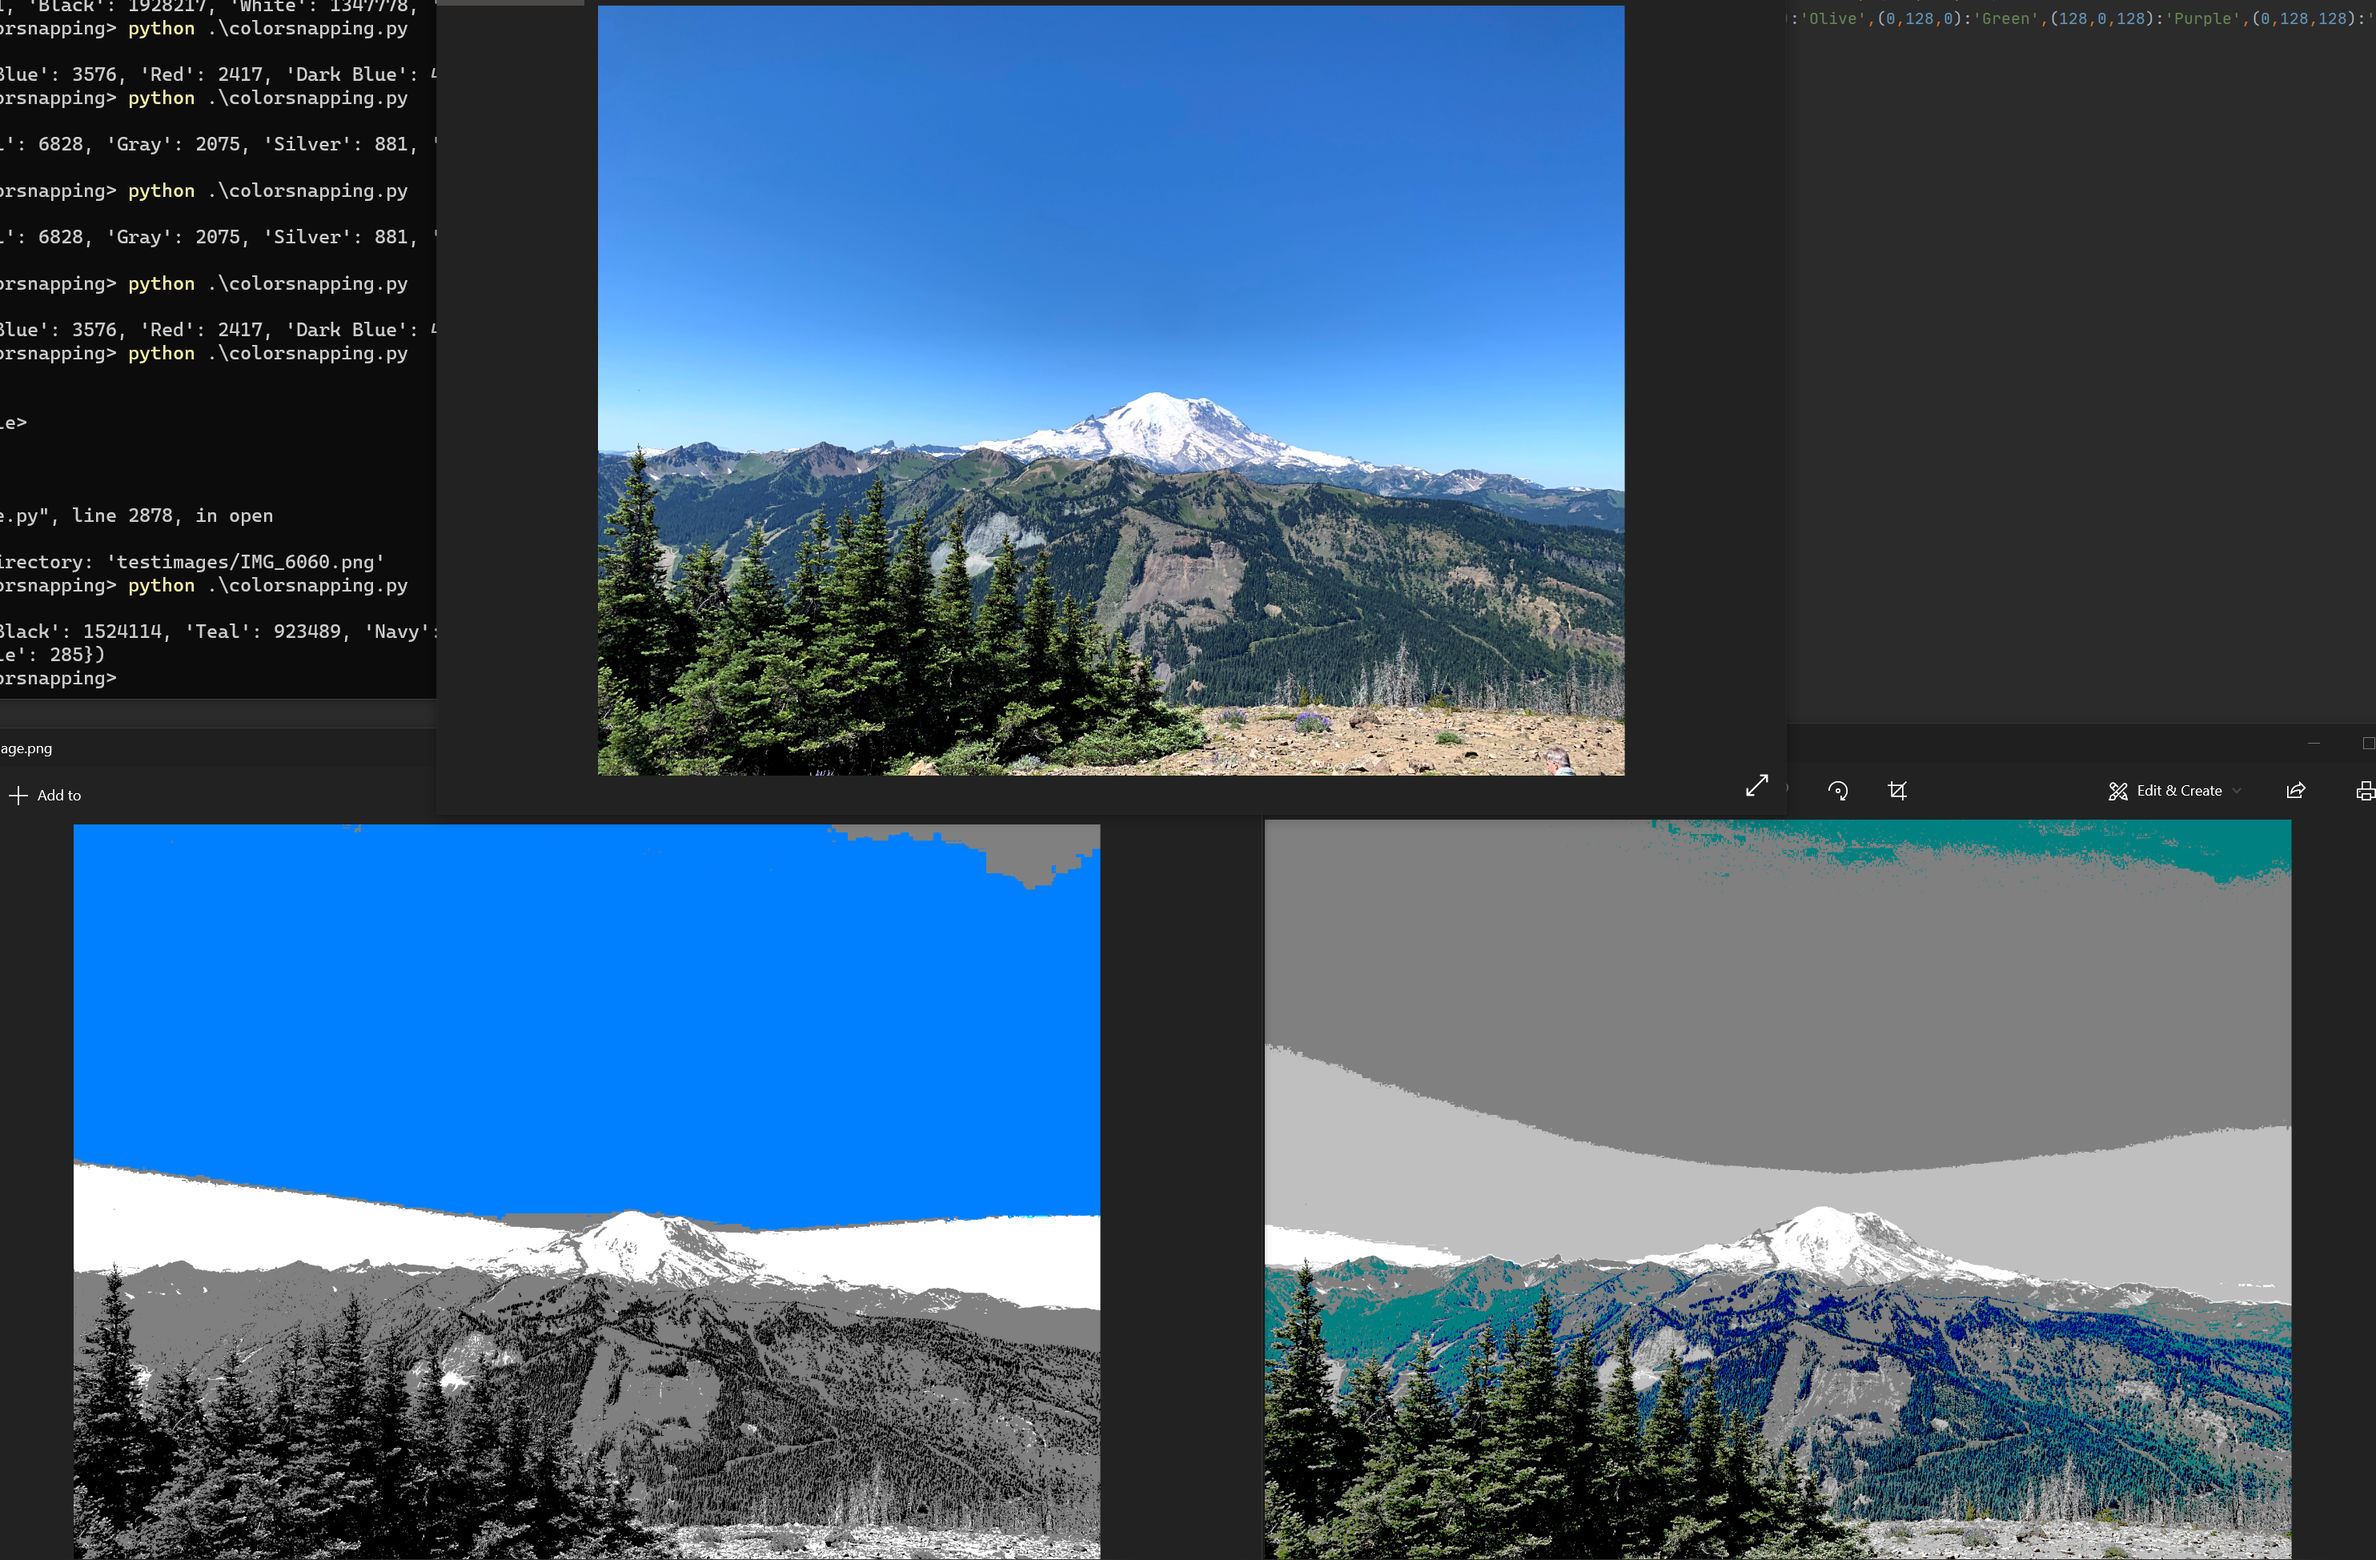
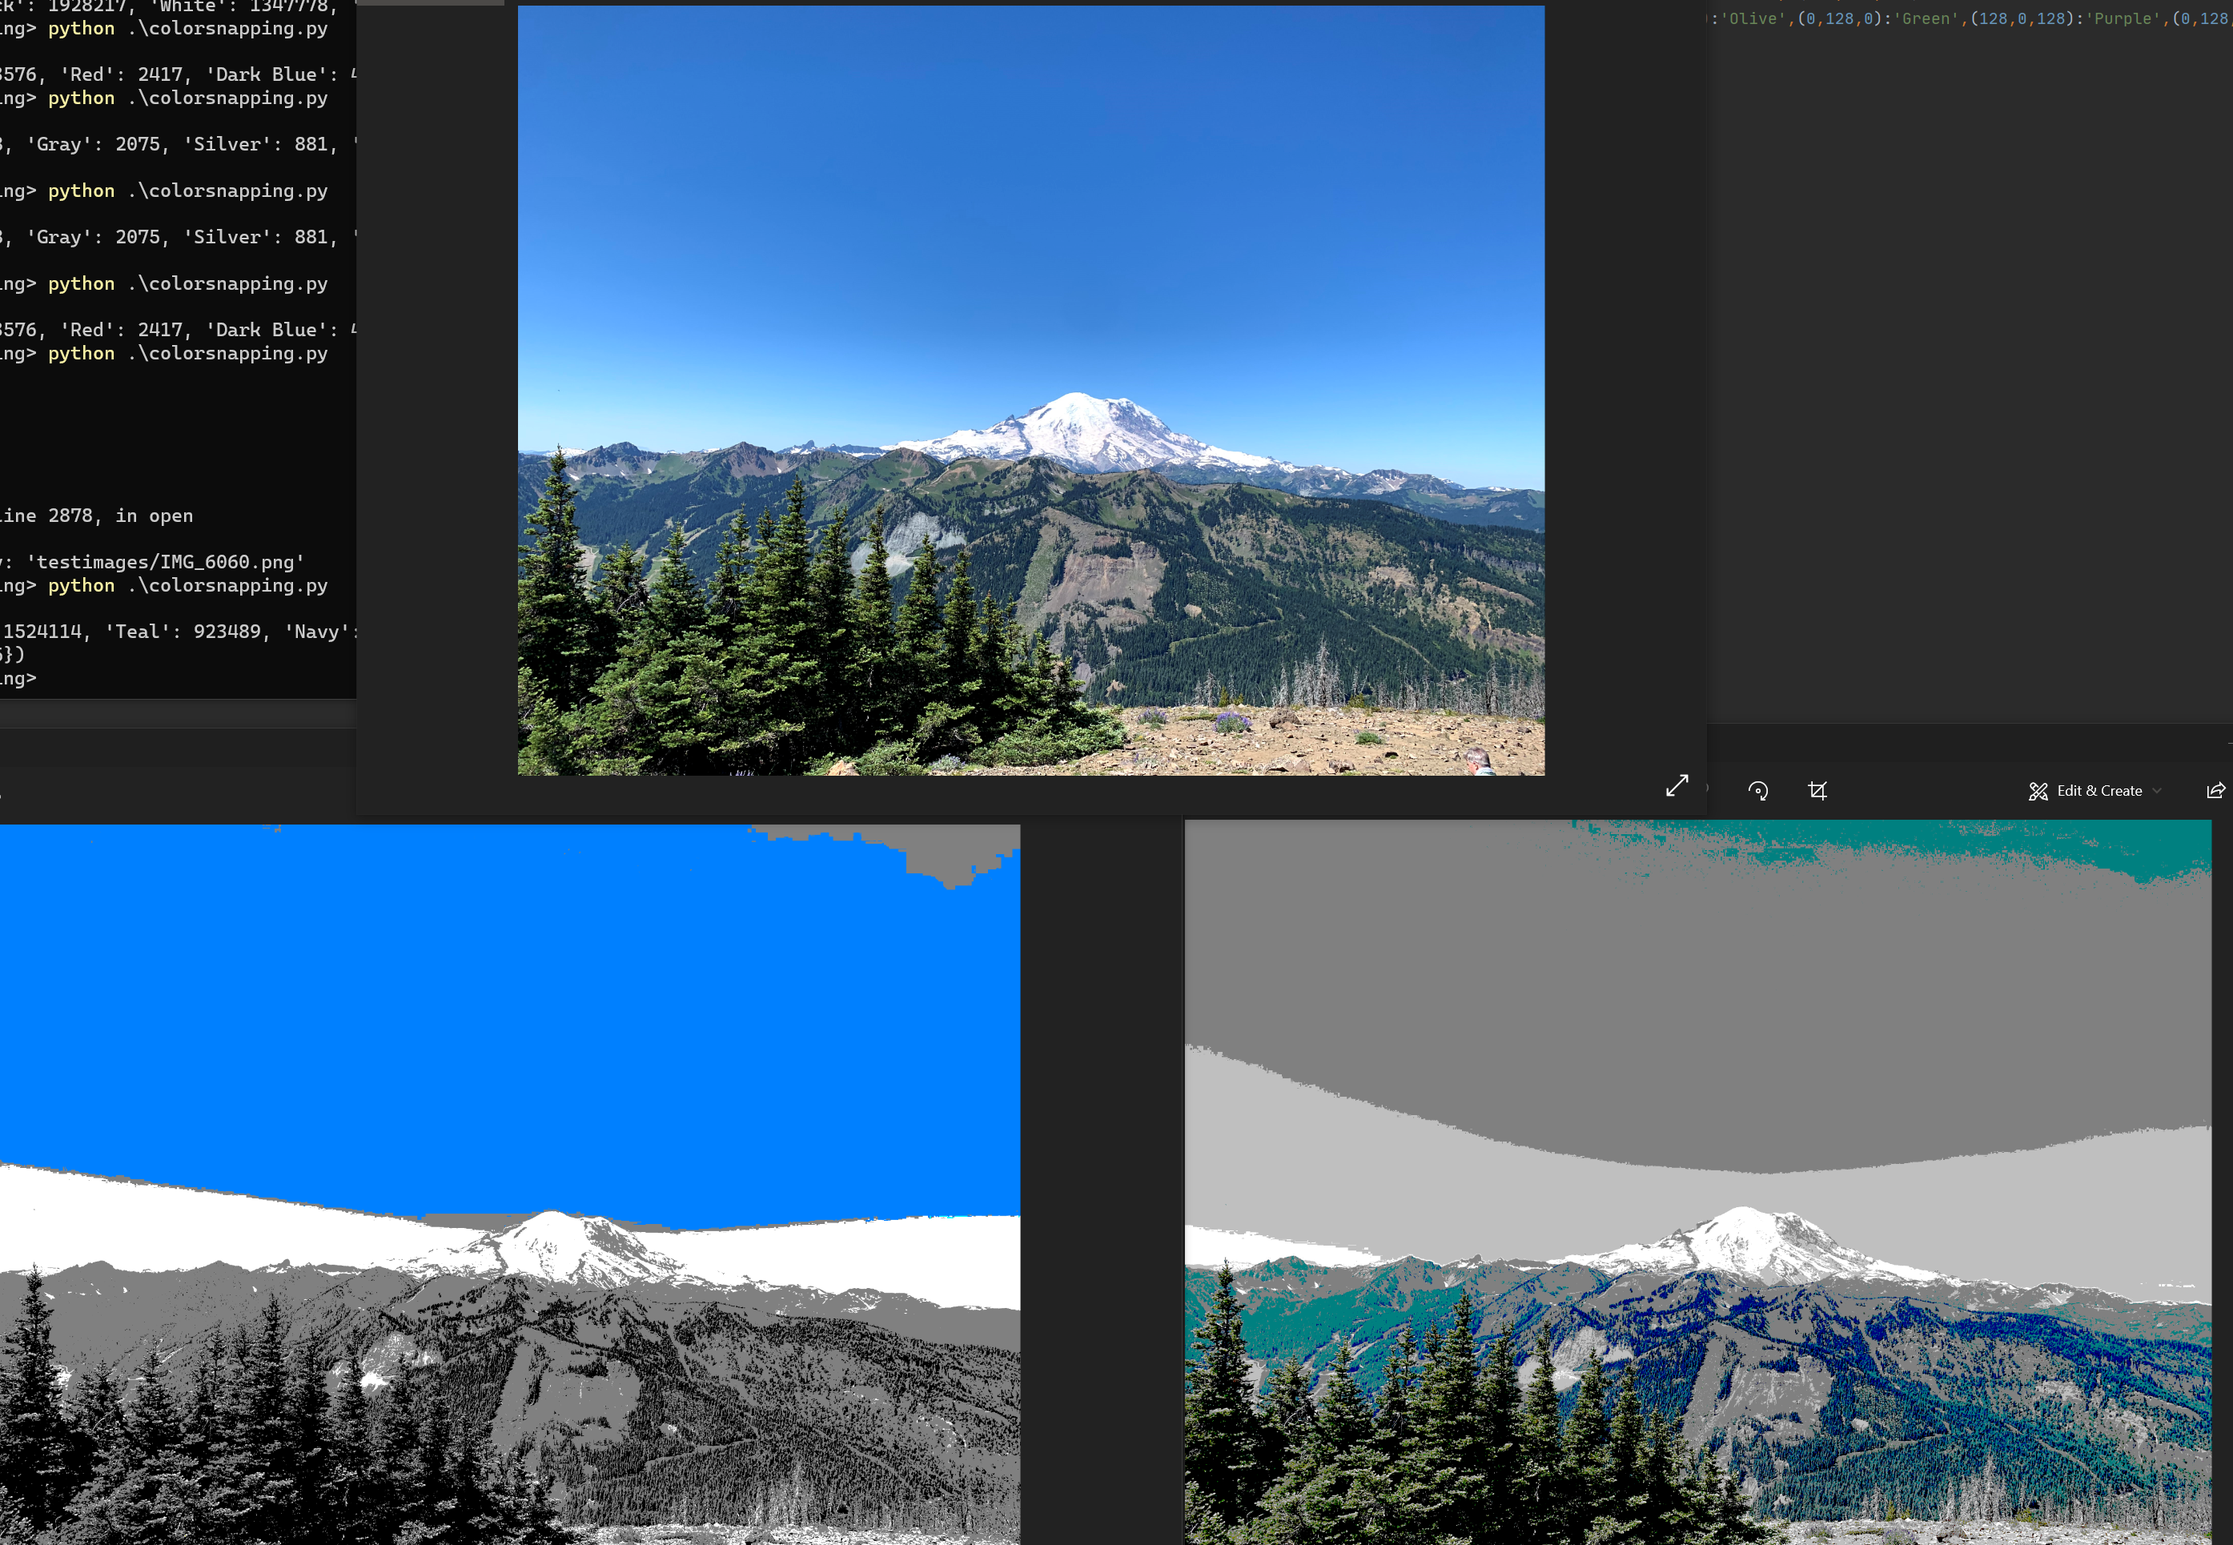
Final Update
Added a condition to select a color vs a shade of gray. If lightness is less than 15%, count it as a shade of gray, else it is a color.

diff --git a/colorsnapping.py b/colorsnapping.py
@@ -6,10 +6,12 @@ COLOR_DICT = {(255,51,51):'Red', (255,128,0):'Orange', (255,255,0):'Yellow', (0,
               (0,255,255):'Dark Blue', (127,0,255):'Purple',(255,0,255):'Magenta', (255,51,153):'Pink', (128,128,128):'Gray',
               (0,0,0):'Black', (255,255,255):'White'}
 
-COLOR_DICT_V2 = {(0,0,0):'Black',(255,255,255):'White',(255,0,0):'Red',(0,255,0):'Light Green',(0,0,255):'Blue',(255,255,0):'Yellow',
-                 (255,215,0):'Gold',(0,255,255):'Light Blue',(255,140,0):'Orange',(255,0,255):'Magenta',(75,0,130):'Indigo',
-                 (191,191,191):'Silver',(128,128,128):'Gray',(128,0,0):'Dark Red',(0,128,0):'Green',
-                 (220,202,152):'Tan',(128,0,128):'Purple',(0,128,128):'Blue Green',(0,0,128):'Dark Blue'}
+COLOR_DICT_V2 = {(255,0,0):'Red',(0,255,0):'Light Green',(0,0,255):'Blue',(255,255,0):'Yellow', (255,215,0):'Gold',
+                 (0,255,255):'Light Blue',(255,140,0):'Orange',(255,0,255):'Magenta',(75,0,130):'Indigo',
+                 (128,0,0):'Dark Red',(0,128,0):'Green', (220,202,152):'Tan',(128,0,128):'Purple',
+                 (0,128,128):'Blue Green',(0,0,128):'Dark Blue'}
+
+NO_SAT = {(0,0,0):'Black',(255,255,255):'White', (191,191,191):'Silver',(128,128,128):'Gray'}
 
 PAIRED_COLORS = {'Black': ['Gray'], 'Gray': ['Black', 'Silver'], 'Silver': ['Gray'], 'White': ['Silver', 'Tan'],
                  'Tan': ['Yellow'], 'Yellow': ['Tan', 'Gold'], 'Gold': ['Orange', 'Yellow '], 'Orange': ['Gold', 'Red'],
@@ -32,11 +34,25 @@ def lab_conversion(c1:(int), c2:(int))-> float:
     b = c1[2] - c2[2]
     return (2+rmean/256)*r*r + 4*g*g + (2+(255-rmean)/256)*b*b
 
-def color_snap(pixel:(int)) -> (int):
-    global COLOR_DICT_V2
+def sat_conversion(c1:(int))-> float:
+    rprime = c1[0] / 255
+    gprime = c1[1] / 255
+    bprime = c1[2] / 255
+    cMax = max(rprime, gprime, bprime)
+    cMin = min(rprime, gprime, bprime)
+    dC = cMax - cMin
+    lightness = cMax + cMin / 2
+    if dC == 0:
+        return 0.0
+    else:
+        if (1-abs(2*lightness-1)) == 0:
+            return 1
+        return dC/(1-abs(2*lightness-1))
+
+def color_snap(pixel:(int), d:{}) -> (int):
     sDist = 10000000
     cColor = -1
-    for color in COLOR_DICT_V2.keys():
+    for color in d.keys():
         dist = lab_conversion(color, pixel)
         if dist < sDist:
             sDist = dist
@@ -55,6 +71,7 @@ def collapse_counter(count:Counter) -> [()]:
 
 def run():
     global COLOR_DICT_V2
+    global NO_SAT
     tests = ['1.png','2.png','3.png','4.png','5.png','6.png','7.png', '8.png', '9.png']
     for test in tests:
         print(test)
@@ -65,11 +82,21 @@ def run():
         nList = []
         for val in pix_val:
             if len(val) == 3:
-                c = color_snap(val)
+                if sat_conversion(val) < 0.15:
+                    c = color_snap(val, NO_SAT)
+                    count[NO_SAT[c]] += 1
+                else:
+                    c = color_snap(val, COLOR_DICT_V2)
+                    count[COLOR_DICT_V2[c]] += 1
                 nList.append(c)
-                count[COLOR_DICT_V2[c]] += 1
             elif val[3] == 255:
-                c = color_snap(val)
+                if sat_conversion(val) < 0.15:
+                    c = color_snap(val, NO_SAT)
+                    count[NO_SAT[c]] += 1
+                else:
+                    c = color_snap(val, COLOR_DICT_V2)
+                    count[COLOR_DICT_V2[c]] += 1
+                nList.append(c)
                 #Code For Producing the Image Without Black or Gray in it.
                 '''
                 if COLOR_DICT_V2[c] == 'Black' or COLOR_DICT_V2[c]=='Gray':
@@ -77,8 +104,6 @@ def run():
                 else:
                     nList.append(c)
                 '''
-                nList.append(c)
-                count[COLOR_DICT_V2[c]] += 1
             else:
                 nList.append(val)
         percent_black = (count['Black']+count['Gray'])/ sum(count.values())
@@ -91,8 +116,8 @@ def run():
 
         #Code for Saving image
 
-        #im2.putdata(nList)
-        #im2.save('outputcd2/'+test)
+        im2.putdata(nList)
+        im2.save('outputcd3/'+test)
 
 
 if __name__ == '__main__':
